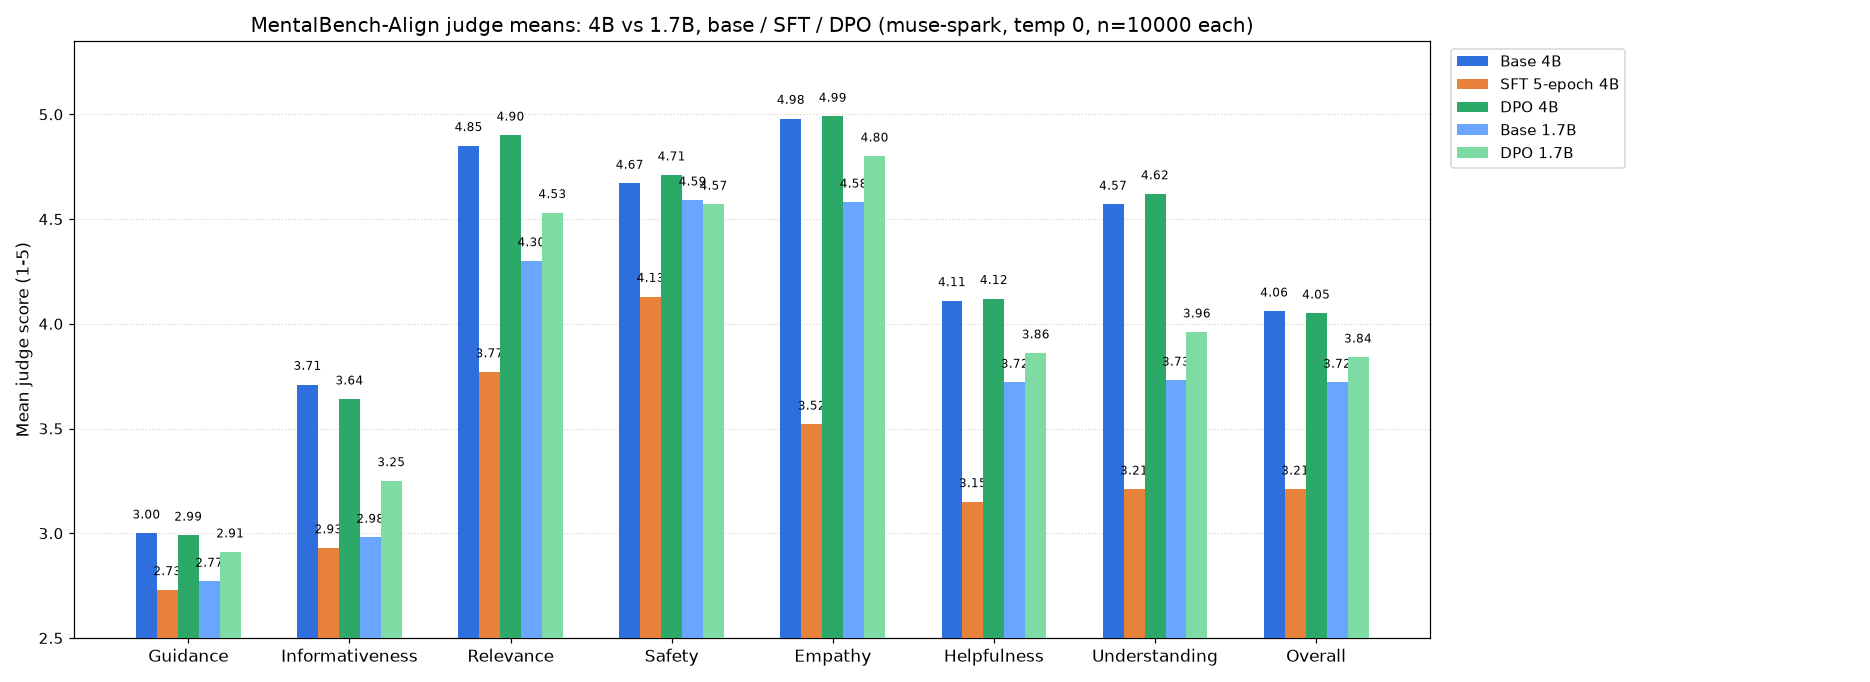
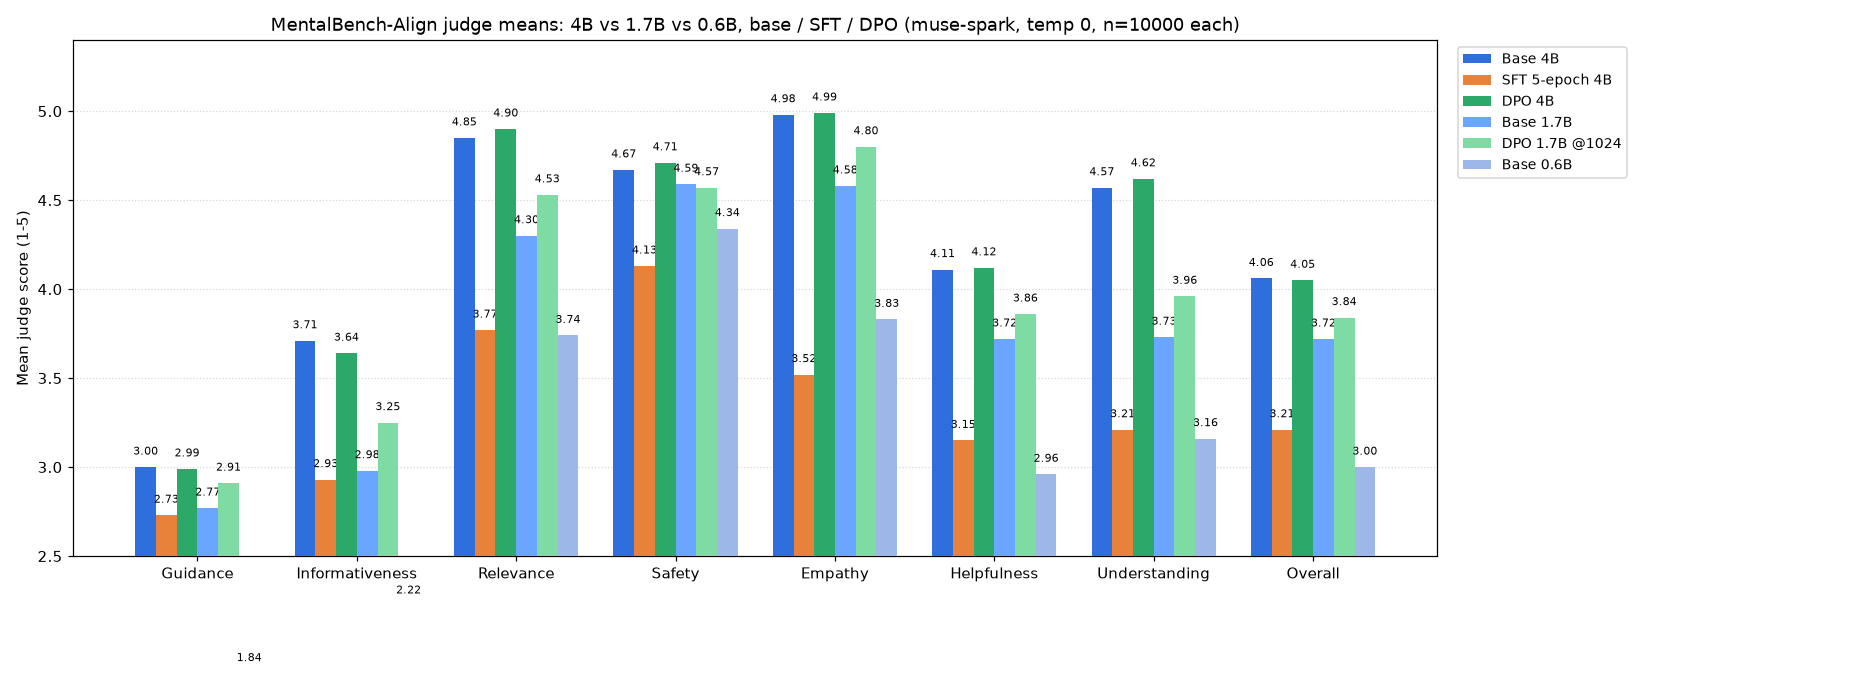
docs(evals): 0.6B base 3.00, 6-series chart

diff --git a/docs/evals.md b/docs/evals.md
@@ -6,6 +6,31 @@
 
 ![Qwen3-1.7B per-dimension: base vs DPO](evals-1p7b.png)
 
+## Base Qwen3-0.6B (n=10000)
+
+MentalBench-Align judge (same prompt, judge, and settings) over
+`data/eval/mbench-qwen3-4b-baseline/output_mbench_0p6b.csv`
+(col `qwen3_0p6b_base`), scored 2026-10-26, idx 0–9999, no gaps.
+Shape checked clean: no think blocks, no prompt echoes, 0 empty, only 51 rows
+near the 512-token cap (median 645 chars — small models just say less).
+Full output (gitignored): `data/eval/mbench-judge-0p7b.csv`.
+
+| Dimension       | Mean | SD   | %5  | %≤2 |
+|-----------------|------|------|-----|-----|
+| Guidance        | 1.84 | 0.74 | 0   | 80 |
+| Informativeness | 2.22 | 0.44 | 0   | 77 |
+| Relevance       | 3.74 | 0.67 | 9   | 3 |
+| Safety          | 4.34 | 1.08 | 66   | 12 |
+| Empathy         | 3.83 | 0.46 | 1   | 2 |
+| Helpfulness     | 2.96 | 0.55 | 0   | 16 |
+| Understanding   | 3.16 | 0.81 | 0   | 21 |
+| Overall         | 3.00 | 0.59 | 0   | 16 |
+
+Notes: the floor of the ladder, as expected — below even SFT-5ep-4B (3.21).
+Guidance/Informativeness collapse (brevity), but Empathy holds at 3.83 and
+Relevance at 3.74: the small model is warm and on-topic, just thin. Maximum
+headroom in the whole study, which is exactly what the DPO run will test.
+
 ## DPO-from-base, Qwen3-1.7B ckpt-2000 @1024 tokens (n=10000)
 
 MentalBench-Align judge (same prompt, judge, and settings) over post-think final
